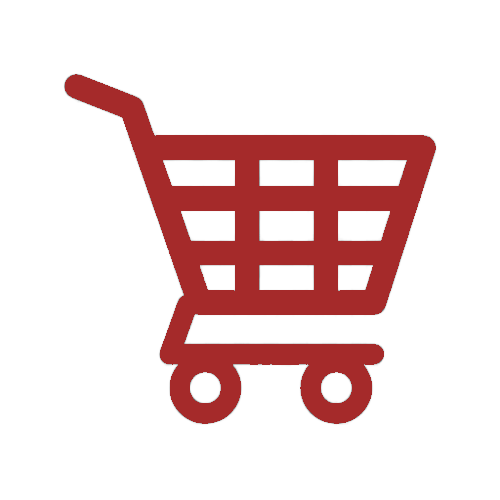
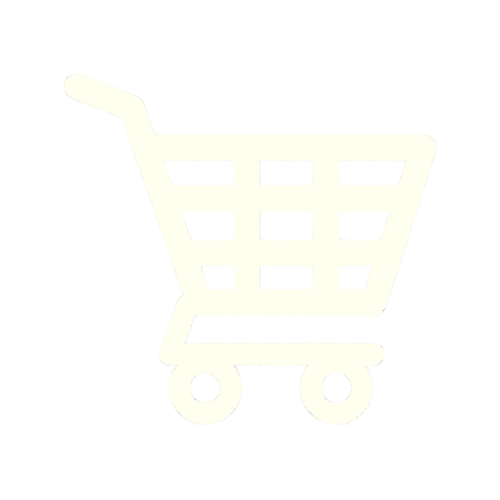
agyhalal

Changed region(s): [[0.12, 0.15, 0.87, 0.87]]

diff --git a/ism_iframe.html b/ism_iframe.html
@@ -1,0 +1,82 @@
+<!DOCTYPE html>
+<html lang="hu">
+<head>
+    <meta charset="UTF-8">
+    <meta name="viewport" content="width=device-width, initial-scale=1.0">
+    <title>Document</title>
+    <link rel="stylesheet" href="style.css">
+</head>
+<body>
+        <header class="iframe">
+            <h2>Ismertető</h2>
+        </header>
+
+
+    <main>      
+        <div class="kisdoboz"  id="vacak">
+            <h2 id="mrlincoln">Mr. Lincoln</h2>
+            <hr>
+            <img src="img/rozsak/mrlincoln.jpeg" alt="Mr. Lincoln rózsa" >
+            <h3>Leírás:</h3>
+            <p>Bordó, bársonyos, telt virágú, erősen illatos, szálas virágú.</p>
+            <h3>Gondozási tudnivalók:</h3>
+            <p>Ültetés: A teahibryd rózsatövek általában egymástól 60 cm sor-, 40 cm tőtávolság legyenek. Metszés: A metszés ideje február vége, április közepe, de esetleg a tél elején is elvégezhetjük ezt a műveletet. Általános szabály, hogy 3-4 vázágat hagyunk, a gyenge növekedésűeket 3-4 szemre, a közepes növekedésűeket 5-6 szemre, az erős növekedésűeket 6-8 szemre metsszük. Metszeni mindig ferdén, közvetlenül 5-10 mm-rel a rügy felett kell úgy, hogy a rügy mindig a metszés magasabbik oldalán legyen. Tápanyag utánpótlás: Tápanyag utánpótlásra az ültetés évében nincs szükség. A második évtől dolgozzunk a talajba négyzetméterenként 5-10 kg istállótrágyát.</p>      
+        </div>
+
+        <div class="kisdoboz">
+            <h2 id="bianca">Bianca tearózsa</h2>
+            <hr>
+            <img src="img/rozsak/bianca.jpg" alt="Bianca rózsa" >
+            <h3>Leírás:</h3>
+            <p>Hófehér, telt virágaival az elegancia megtestesítője.</p>
+            <h3>Virág jellemzői:</h3>
+            <p>Elegáns megjelenésű, hófehér virágú, dús virágzatú, enyhe illatú rózsafajta. Ültetési ideje: szabad gyökerű törzses növény március-április, illetve október-november, konténeres törzses változat egész évben telepíthető.</p>
+            <h3>Növény jellemzői:</h3>
+            <p>Erőteljes növekedés jellemzi, virágzási ideje ismétlődő, téli keményebb hónapokat jól viseli. Virágzási ideje: kora nyártól késő őszig (júniustól novemberig), az első fagyokig virágzik.</p>    
+        </div>
+
+        <div class="kisdoboz">
+            <h2 id="sissi">Sissi</h2>
+            <hr>
+            <img src="img/rozsak/sissi.jpg" alt="Sissi rózsa" >
+            <h3>Leírás:</h3>
+            <p>Kifejezetten elegáns megjelenésű, különleges lila virága kitűnik a hagyományos rózsák közül, kellemes illatú, nagyvirágú.</p>
+            <h3>Gondozási tudnivalók:</h3>
+            <p>Ültetés: - szabadgyökerű példányokat kora tavasszal, február második felétől április közepéig, és ősszel október elejétől november végéig ültessünk - konténeres növények telepítése márciustól novemberig ajánlott.</p>  
+            <h3>Növény jellemzői:</h3>
+            <p>Magas bokrot nevel, magassága kb. 150 cm, felálló ágrendszerű, téli fagyokat jól viseli, hosszú szárán hozza nagy virágát, jó minőségű vágott virág, hosszú virágzási idő jellemzi, betegségekkel szemben ellenálló.</p>   
+        </div>
+
+        <div class="kisdoboz">
+            <h2 id="gaumo">Gaumó</h2>
+            <hr>
+            <img src="img/rozsak/gaumo.jpg" alt="Gaumó rózsa" >
+            <h3>Leírás:</h3>
+            <p>Virág színe rózsaszín ezüstös fonákkal, egyedi színvilágával kitűnik a klasszikus rózsaszín fajták közül, teltvirágú, enyhén illatos.</p>
+            <h3>Gondozási tudnivalók:</h3>
+            <p>- szabadgyökerű tövek ültetése március-április, illetve október-november hónapokban ideális
+                - konténeres növények majd egész évben, márciustól novemberig telepíthetők</p>  
+            <h3>Növény jellemzői:</h3>
+            <p>A bokor magassága kb. 80-100 cm, elágazó ágrendszerű, hosszú szárán hozza nagy virágát, jó minőségű vágott virág és folyamatos virágzás jellemzi, abszolút télálló, betegségekkel szemben toleráns.</p>   
+        </div>
+
+        <div class="kisdoboz">
+            <h2 id="qelisa">Queen Elisabeth</h2>
+            <hr>
+            <img src="img/rozsak/elisabeth.jpg" alt="Queen Elisabeth rózsa" >
+            <h3>Leírás:</h3>
+            <p>Rózsaszín, finom, szép állású, kecses, telt virágok jellemzik, kellemesen édes illatú.</p>
+            <h3>Gondozási tudnivalók:</h3>
+            <p>Ültetés: - szabadgyökerű példányokat kora tavasszal, február második felétől április közepéig, és ősszel október elejétől november végéig ültessünk - konténeres növények telepítése márciustól novemberig ajánlott.</p>  
+            <h3>Növény jellemzői:</h3>
+            <p>Az egyik legnemesebb fajta, erőteljes, felfelé törekvő növekedés jellemzi, az egyik legmagasabb tearózsa, elérheti a 150-200 cm-t is, erőteljes növekedésének köszönhetően elviseli a mostohább körülményeket is, így félárnyékban is szépen fejlődik, fagytűrő képessége figyelemre méltó, talajban nem válogat.</p>   
+        </div>
+       
+    </main>
+
+    <footer>
+
+
+    </footer>
+</body>
+</html>

diff --git a/style.css b/style.css
@@ -5,7 +5,7 @@
 }
 
 body {
-    background: url(img/hatterek/hatter2.jpeg);
+    background: url(img/hatterek/hatter1.jpeg);
     background-size: cover;
 }
 
@@ -21,8 +21,8 @@ header {
     padding: 0% 5%;
     display: flex;
     justify-content: right;
-    background-color: ivory;
-    border-bottom: 3px solid brown;
+    background-color: #0e1538;
+    border-bottom: 3px solid ivory;
     z-index: 100;
     height: 75px;
 }
@@ -33,7 +33,7 @@ header {
     left: 5%;
     font-weight: bolder;
     user-select: none;
-    color: #C21E56;
+    color: ivory;
     font-family: 'Crimson Pro';
     font-size: 300%;
 }
@@ -52,7 +52,7 @@ header {
     position: relative;
     font-size: larger;
     font-weight: bold;
-    color: rgb(165, 42, 42);
+    color: ivory;
     text-decoration: none;
     margin: 20px;
 }
@@ -65,17 +65,18 @@ header {
 .navigation button {
     width: 100px;
     height: 40px;
-    color: ivory;
+    color: #0e1538;
     font-weight: bold;
-    background: brown;
+    background: ivory;
     border-radius: 5px;
-    border-color: brown;
+    border-color: ivory;
     cursor: pointer;
+    padding: 0%;
 }
 
 .navigation button:hover {
-    color: brown;
-    background-color: ivory;
+    color: ivory;
+    background-color: #0e1538;
 
 }
 
@@ -85,7 +86,7 @@ header {
     top: 16px;
 }
 
-@media only screen and (max-width: 984px) {
+@media only screen and (max-width: 1072px) {
     .navigation {
         display: none;
     }
@@ -104,24 +105,24 @@ header {
 /* Index kezdete: */
 
 #bemutatkoz {
-    color: brown;
+    color: ivory;
     text-align: justify;
     height: 10%;
     padding: 10px;
     width: 70%;
     margin-left: 15%;
-    background-color: ivory;
-    border: brown solid 2px;
+    background-color: rgba(14, 21, 56);
+    border: ivory solid 2px;
     border-radius: 6px;
     font-size: 22px;
-    margin-top: 160px;
+    margin-top: 130px;
 }
 
 iframe {
     width: 70%;
     margin-left: 15%;
     margin-top: 60px;
-    border: 2px solid #C21E56;
+    border: 2px solid ivory;
     border-radius: 6px;
     height: 360px;
 }
@@ -331,14 +332,14 @@ fieldset input[type="submit"]:hover {
 /* Imsertető kezdete: */
 
 .kisdoboz {
-    color: brown;
+    color: ivory;
     text-align: justify;
     height: 10%;
     padding: 1%;
     width: 90%;
     margin-left: 5%;
-    background-color: ivory;
-    border: brown solid 2px;
+    background-color: #0e1538;
+    border: ivory solid 2px;
     border-radius: 6px;
     font-size: 22px;
     text-align: left;
@@ -371,12 +372,12 @@ fieldset input[type="submit"]:hover {
 }
 
 .kisdoboz hr {
-    border: 2px brown solid;
+    border: 2px ivory solid;
     border-radius: 6px;
 }
 .kisdoboz img {
     width: 240px;
-    border: 2px brown solid;
+    border: 2px ivory solid;
     border-radius: 6px;
     float: right;
 }
@@ -388,12 +389,6 @@ fieldset input[type="submit"]:hover {
     font-family: "Crimson Pro";
 }
 
- h2 {
-    font-size:200%;
-    color: white;
-}
-
-
 .cart_table table{
     margin-top:7%;
     margin-left:10%;
@@ -403,7 +398,7 @@ fieldset input[type="submit"]:hover {
     border-radius:10px;
     font-size: larger;
     backdrop-filter: blur(8px);
-    background-color:rgba(14, 21, 56, 0.8);
+    background-color:#0e1538cc;
     border: lightgoldenrodyellow solid 2px;
 }
 
@@ -488,4 +483,17 @@ table img {
     border: lightgoldenrodyellow solid 1px;
     float: right;
     margin-right: 2%;
+}
+
+/* iframe-ken belüli tartalmak: */
+
+.iframe h2 {
+    position: fixed;
+    top: -9%;
+    left: 38%;
+    font-weight: bolder;
+    user-select: none;
+    color: ivory;
+    font-family: 'Crimson Pro';
+    font-size: 300%;
 }

diff --git a/index.html b/index.html
@@ -28,7 +28,7 @@
             Eddig sajnálatos módon nem lehetett szeretteinknek online gyönyörű rózsákat rendelni, ám ezt a problémát mi a földbe tiportuk, a rózsák és webshopok fúziójával. Gondosan nevelt, tökéletes minőségű rózsaszálakat, vagy akár kertészkedéshez rózsatöveket is vásárolhatnak nálunk. Megrendelésre személyre szabott rózsafajta ötvözeteket is létre tudunk hozni. Mindezen lehetőségek mellett kész rózsacsokrot is vásárolhatnak, amit kérésük alapján állítunk össze.
         </div>
         
-            <iframe src="ismerteto.html" frameborder="0" class="ismerteto"></iframe>
+            <iframe src="ism_iframe.html" frameborder="0" class="ismerteto"></iframe>
             <iframe src="gyik.html" frameborder="0" class="gyik"></iframe>
             <iframe src="#shop.html" frameborder="0" class="shop"></iframe>
     </main>
